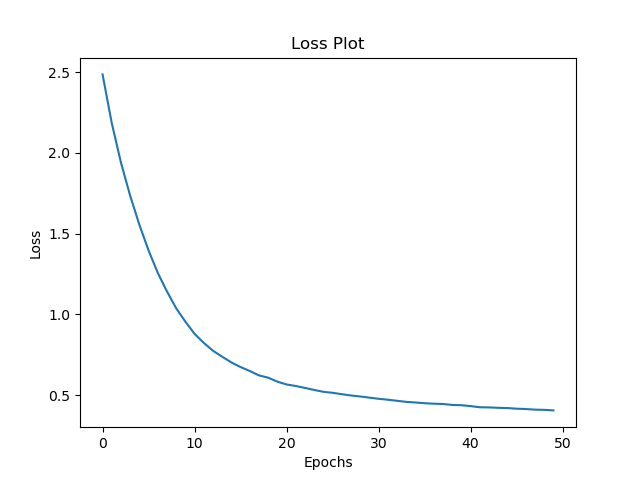
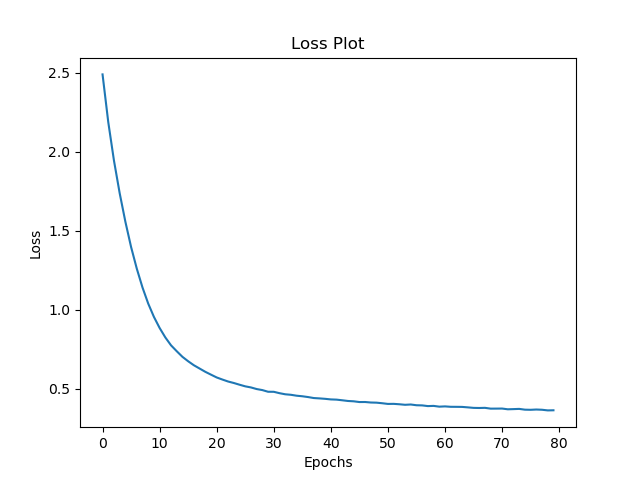
Change Unsupervised FF

diff --git a/FFvsBP.py b/FFvsBP.py
@@ -44,7 +44,7 @@ def visualize_sample(data, name='', idx=0):
 def FF_experiment():
     train_loader, test_loader = MNIST_loaders()
 
-    net = FFNet([784, 500, 500]).to(DEVICE)
+    net = FFNet([784, 1000, 1000]).to(DEVICE)
 
     FF_start_time = time.time()
     train_acc = []
@@ -91,7 +91,7 @@ def FF_experiment_withNN():
     from torch.utils.data import DataLoader
     
     batchsize = 50000
-    epochs = 50
+    epochs = 80
     transformss = tortra.Compose([
             tortra.ToTensor(),
             tortra.Normalize((0.1307,), (0.3081,)),
@@ -174,6 +174,7 @@ if __name__ == "__main__":
 
 
     # FF_experiment()
+    
     FF_experiment_withNN()
     # BP
     # BP_experiment()
